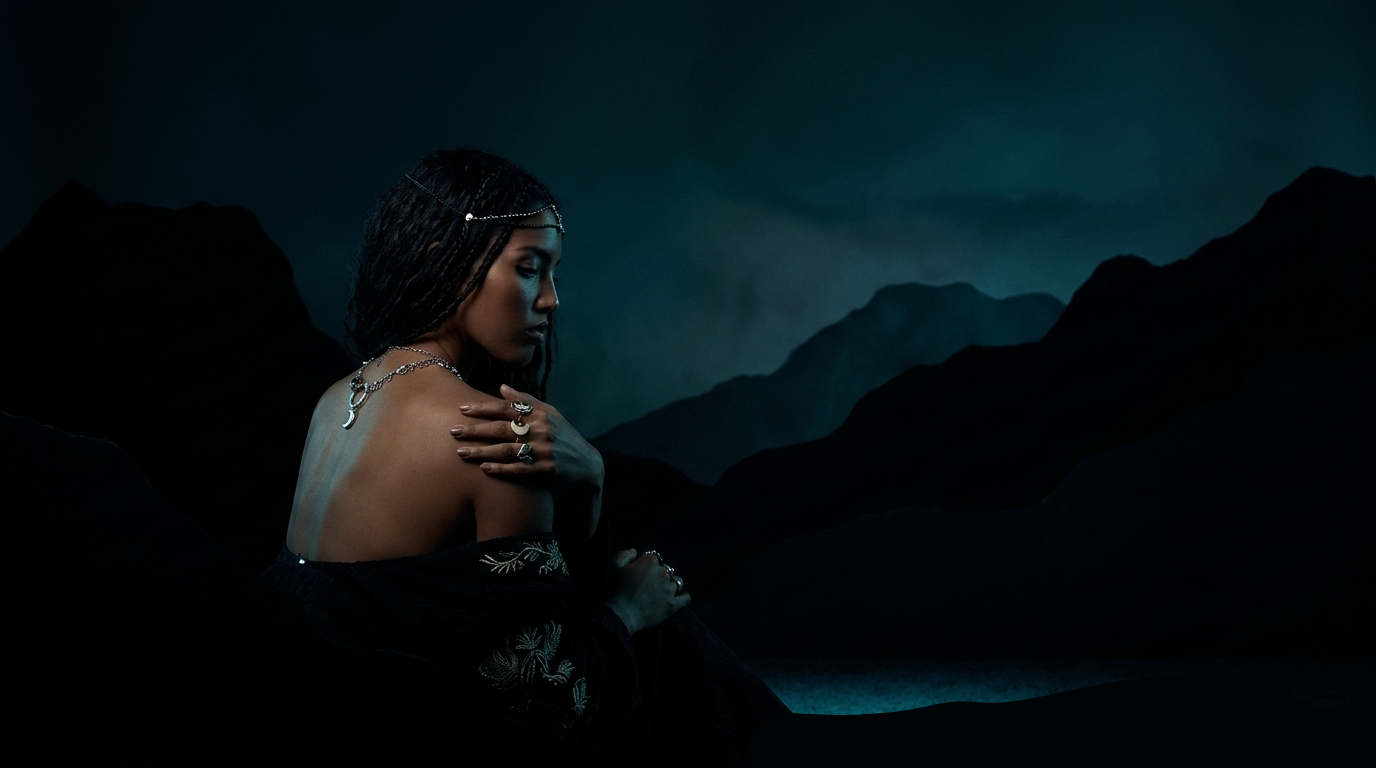
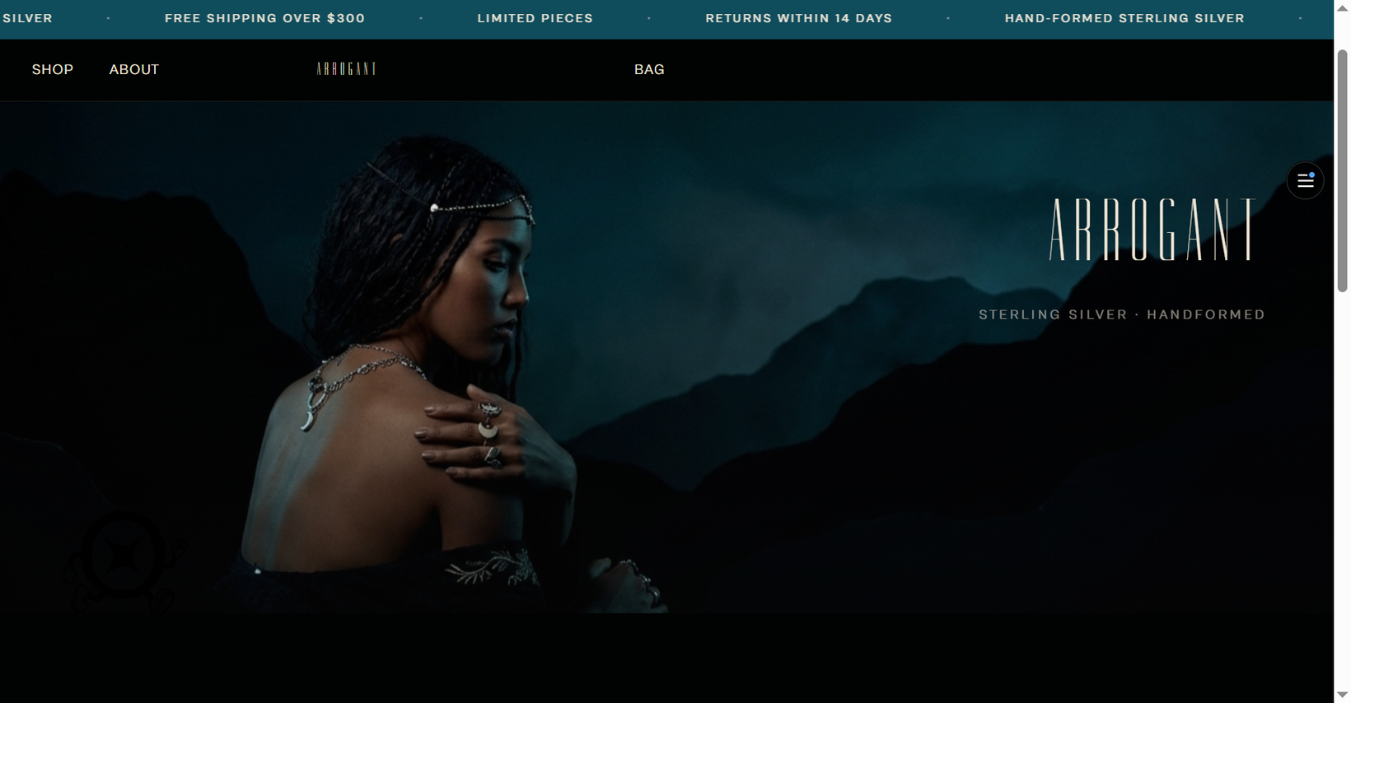
Fix hero bottom bleed: image inset 11vh, gradient & parallax adjusted

diff --git a/css/style.css b/css/style.css
@@ -513,11 +513,14 @@ ul { list-style: none; }
   position: relative;
   height: 100vh;
   overflow: hidden;
+  background: var(--color-background);
 }
 
+/* La imagen NO llega al fondo: deja 11vh de fondo de página visible
+   → el mismo #010202 actúa de marco y la sección siguiente no se funde */
 .hero-img-wrap {
   position: absolute;
-  inset: 0;
+  inset: 0 0 11vh 0;
   overflow: hidden;
 }
 
@@ -525,19 +528,20 @@ ul { list-style: none; }
   width: 100%;
   height: 115%; /* extra para parallax headroom */
   object-fit: cover;
-  object-position: center 20%;
+  object-position: center 15%;
   will-change: transform;
 }
 
-/* overlay para legibilidad del texto */
+/* overlay: solo bordes superior e inferior, sin toque central */
 .hero-overlay {
   position: absolute;
-  inset: 0;
+  inset: 0 0 11vh 0;
   background: linear-gradient(
     to bottom,
-    rgba(8,8,8,0.15) 0%,
-    rgba(8,8,8,0.05) 40%,
-    rgba(8,8,8,0.4) 100%
+    rgba(1,2,2,0.25) 0%,
+    transparent       35%,
+    transparent       65%,
+    rgba(1,2,2,0.55) 100%
   );
 }
 

diff --git a/js/app.js b/js/app.js
@@ -487,12 +487,12 @@ function initHeroParallax() {
     { yPercent: 0 },
     {
       yPercent: 20,
-      ease: 'none',                // [C]
+      ease: 'none',
       scrollTrigger: {
         trigger: hero,
-        start:   'top center',     // [C]
-        end:     'bottom top+=30', // [C]
-        scrub:   2.5,              // [C]
+        start:   'top center',
+        end:     'bottom-=11vh top+=30',
+        scrub:   2.5,
       }
     }
   );